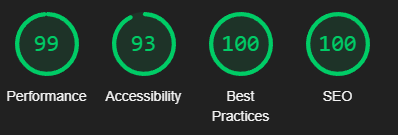
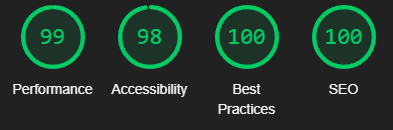
Testing.md updates- added lighthouse results, some more manual testing and html validation

diff --git a/templates/reservations.html b/templates/reservations.html
@@ -23,7 +23,7 @@
             <form method="post">
                 {% csrf_token %}
                 {{ form.as_p }}
-                <button type="submit" class="btn btn-primary">Submit Reservation</button>
+                <button type="submit" class="btn btn-warning">Submit Reservation</button>
             </form>
         </div>
     </div>

diff --git a/TESTINTG.md b/TESTINTG.md
@@ -51,21 +51,92 @@ By implementing these measures, user-based restrictions have been enforced to en
 
 | TEST                                             | OUTCOME                                                    | PASS/FAIL |
 |--------------------------------------------------|------------------------------------------------------------|-----------|
-| View Menu Items                                  | Menu items displayed correctly                             | Pass      |
-| Create Reservation                               | Reservation successfully created and displayed             | Pass      |
-| Edit Own Reservation                             | Own reservation details updated successfully                | Pass      |
-| Delete Own Reservation                           | Own reservation deleted successfully                        | Pass      |
+| Create Account | Created successfully | Pass |
+| View Menu Items | Menu items displayed correctly | Pass |
+| Create Reservation | Reservation successfully created and displayed | Pass |
+| Form validation when Creating Reservations (Name field) | The name field cant be shorter than 3 characters, cant have special characters and displays the corresponding error message | Pass |
+| Edit Own Reservation | Own reservation details updated successfully | Pass |
+| Edit someoneelses Reservation by typing in the reservation id manually into the address bar | Custom 403 template loads | Pass |
+| Delete Own Reservation | Own reservation deleted successfully | Pass |
+
+### Website General Features Testing
+
+| TEST                                             | OUTCOME                                                    | PASS/FAIL |
+|--------------------------------------------------|------------------------------------------------------------|-----------|
+| All Buttons Functionality                        | Buttons perform their intended actions                      | Pass      |
+| External Links Behavior                          | External links open in new window/tab                       | Pass      |
+| Navigation Menu                                 | Navigation menu items lead to correct pages                 | Pass      |
+| Responsive Design                               | Website layout adjusts appropriately across devices          | Pass      |
+| Error Handling                                  | Proper error messages displayed and handled gracefully      | Pass      |
+| Image Loading                                   | Images load correctly and promptly                           | Pass      |
+
+## **Lighthouse Testing**
+
+After mostly finishing website i ran lighthouse tests for all main pages for mobile and desktop. 
+After seeing that blue buttons lowered accesibility ratings, I have changed the defualt bootstrap btn-primary buttons to btn-warnings. 
+
+![Lighthouse button issue](documentation\img\lighthouse\button-contrast.png)
+
+Lighthouse also marked my headings in the footer for not following order but after carefully checking decided to ignore this accessibilty issue. 
+
+![Lighthouse heading issue](documentation\img\lighthouse\heading-order.png)
+
+The cloudinary images were rasing warnings in the console for mixed content and lighthouse ofcourse marked this as a problem. The problem was caused by images from cloudinary being loaded over http instead of https. I couldnt figure out the source of the problem by internet searches and after checking that the menu item urls were stored without the https tag infront of the url in the databse. The images were being called with the http tag infront when i call them with item.url. To fix this i have written an if statement within the html that slices that http infront and adds https. 
+
+![Lighthouse mixed content issue](documentation\img\lighthouse\mixed-content-error.png)
+
+Lighthouse scores for each main page:
+
+![Lighthouse score home](documentation\img\lighthouse\home-desktop.png)
+*Lighthouse score home (desktop)*
+
+![Lighthouse score home](documentation\img\lighthouse\home-mobile.png)
+*Lighthouse score home (mobile)*
+
+![Lighthouse score Login](documentation\img\lighthouse\login-desktop.png)
+*Lighthouse score login (desktop)*
+
+![Lighthouse score login](documentation\img\lighthouse\login-mobile.png)
+*Lighthouse score login (mobile)*
+
+![Lighthouse score reservation](documentation\img\lighthouse\reservations-desktop.png)
+*Lighthouse score reservation (desktop)*
+
+![Lighthouse score reservation](documentation\img\lighthouse\reservations-mobile.png)
+*Lighthouse score reservation (mobile)*
+
+![Lighthouse score menu](documentation\img\lighthouse\menu-desktop.png)
+*Lighthouse score menu (desktop)*
+
+![Lighthouse score menu](documentation\img\lighthouse\menu-mobile.png)
+*Lighthouse score menu (mobile)*
+
+![Lighthouse score register](documentation\img\lighthouse\register-desktop.png)
+*Lighthouse score register (desktop)*
+
+![Lighthouse score register](documentation\img\lighthouse\register-mobile.png)
+*Lighthouse score register (mobile)*
+
+
+Menu page lower scores were mainly caused by cloudinary  images, which are not under my control and cannot be optimized further. The load times were giving mixed results for these images and these were also causing best practices errors even though i fixed the mixed content issue. 
+![Lighthouse score menu problem](documentation\img\lighthouse\menu-problems.png)
+*Lighthouse score menu problems*
 
 ## **Validation**
 
 ### **HTML Validation**
-* 
+
+I used the [HTML W3C Validator](https://validator.w3.org/) to validate all of my HTML files. I validated each page of the application by using the check by address option in the validator and pasting all my deployed sites urls.
+
+No errors were found for all my pages
+
+![Html validator Results](documentation\img\validations\html.png)
 
 ### **CSS Validation**
-* 
 
+I used the [W3C CSS Validator](https://jigsaw.w3.org/css-validator/) to validate my CSS code. My custom CSS code was validated without errors.
 ### **JavaScript Validation**
-* 
+
 
 ### **Python Validation**
 * 
